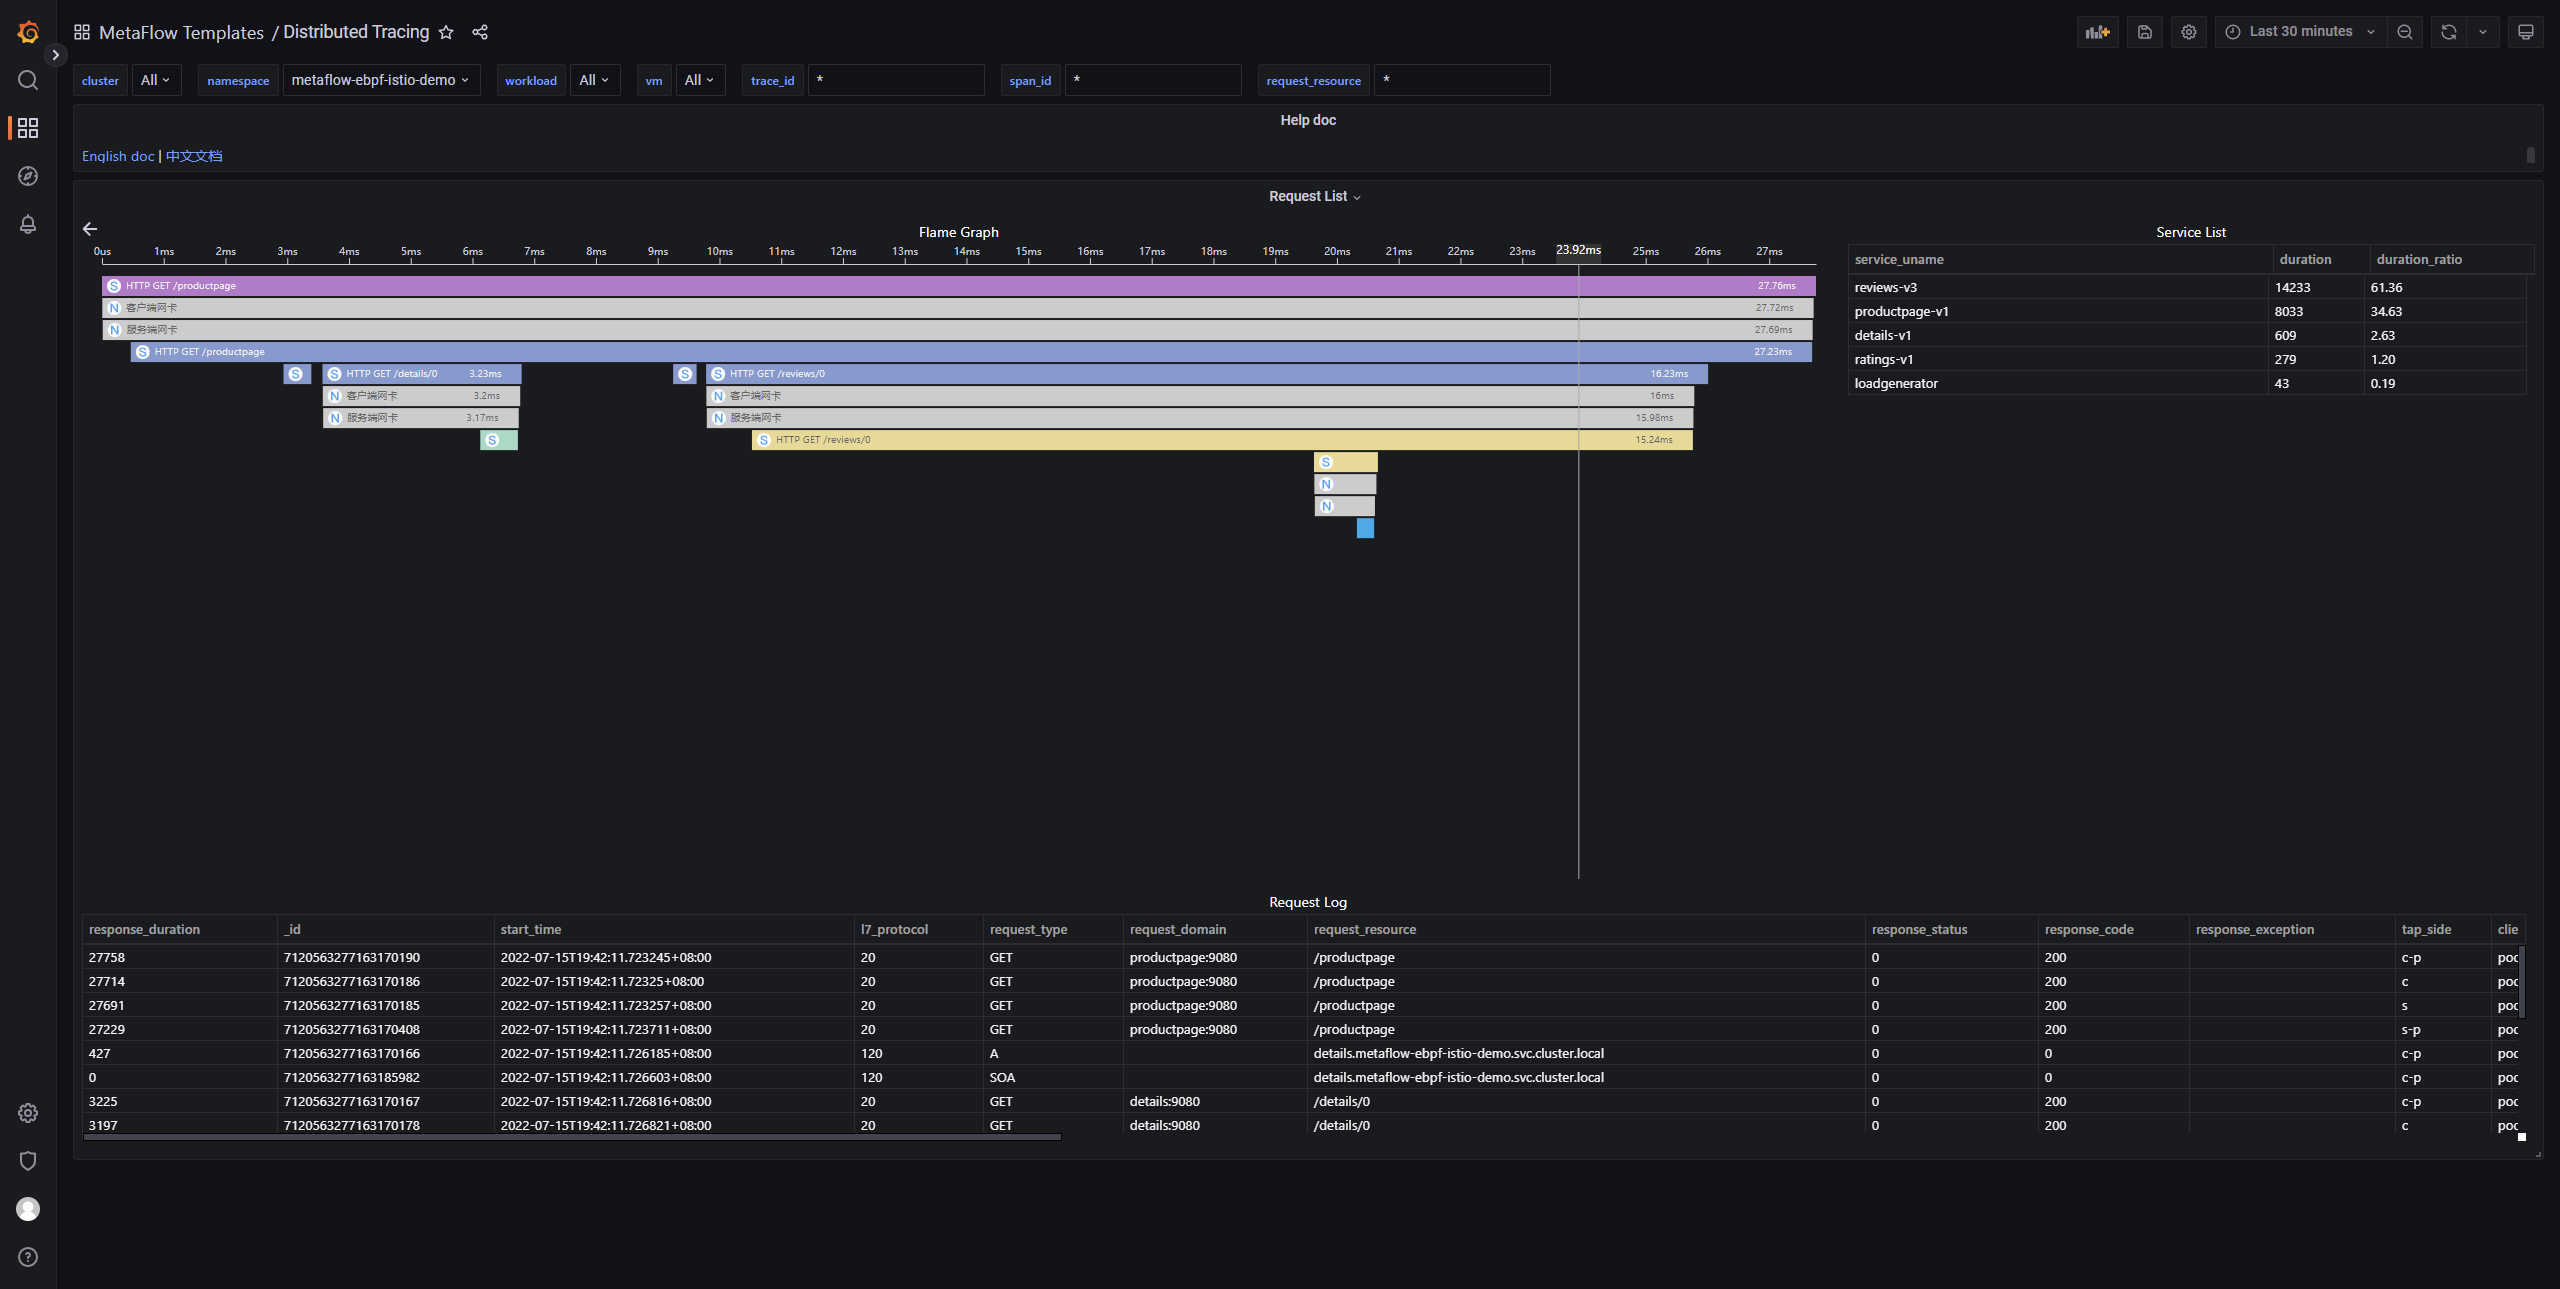
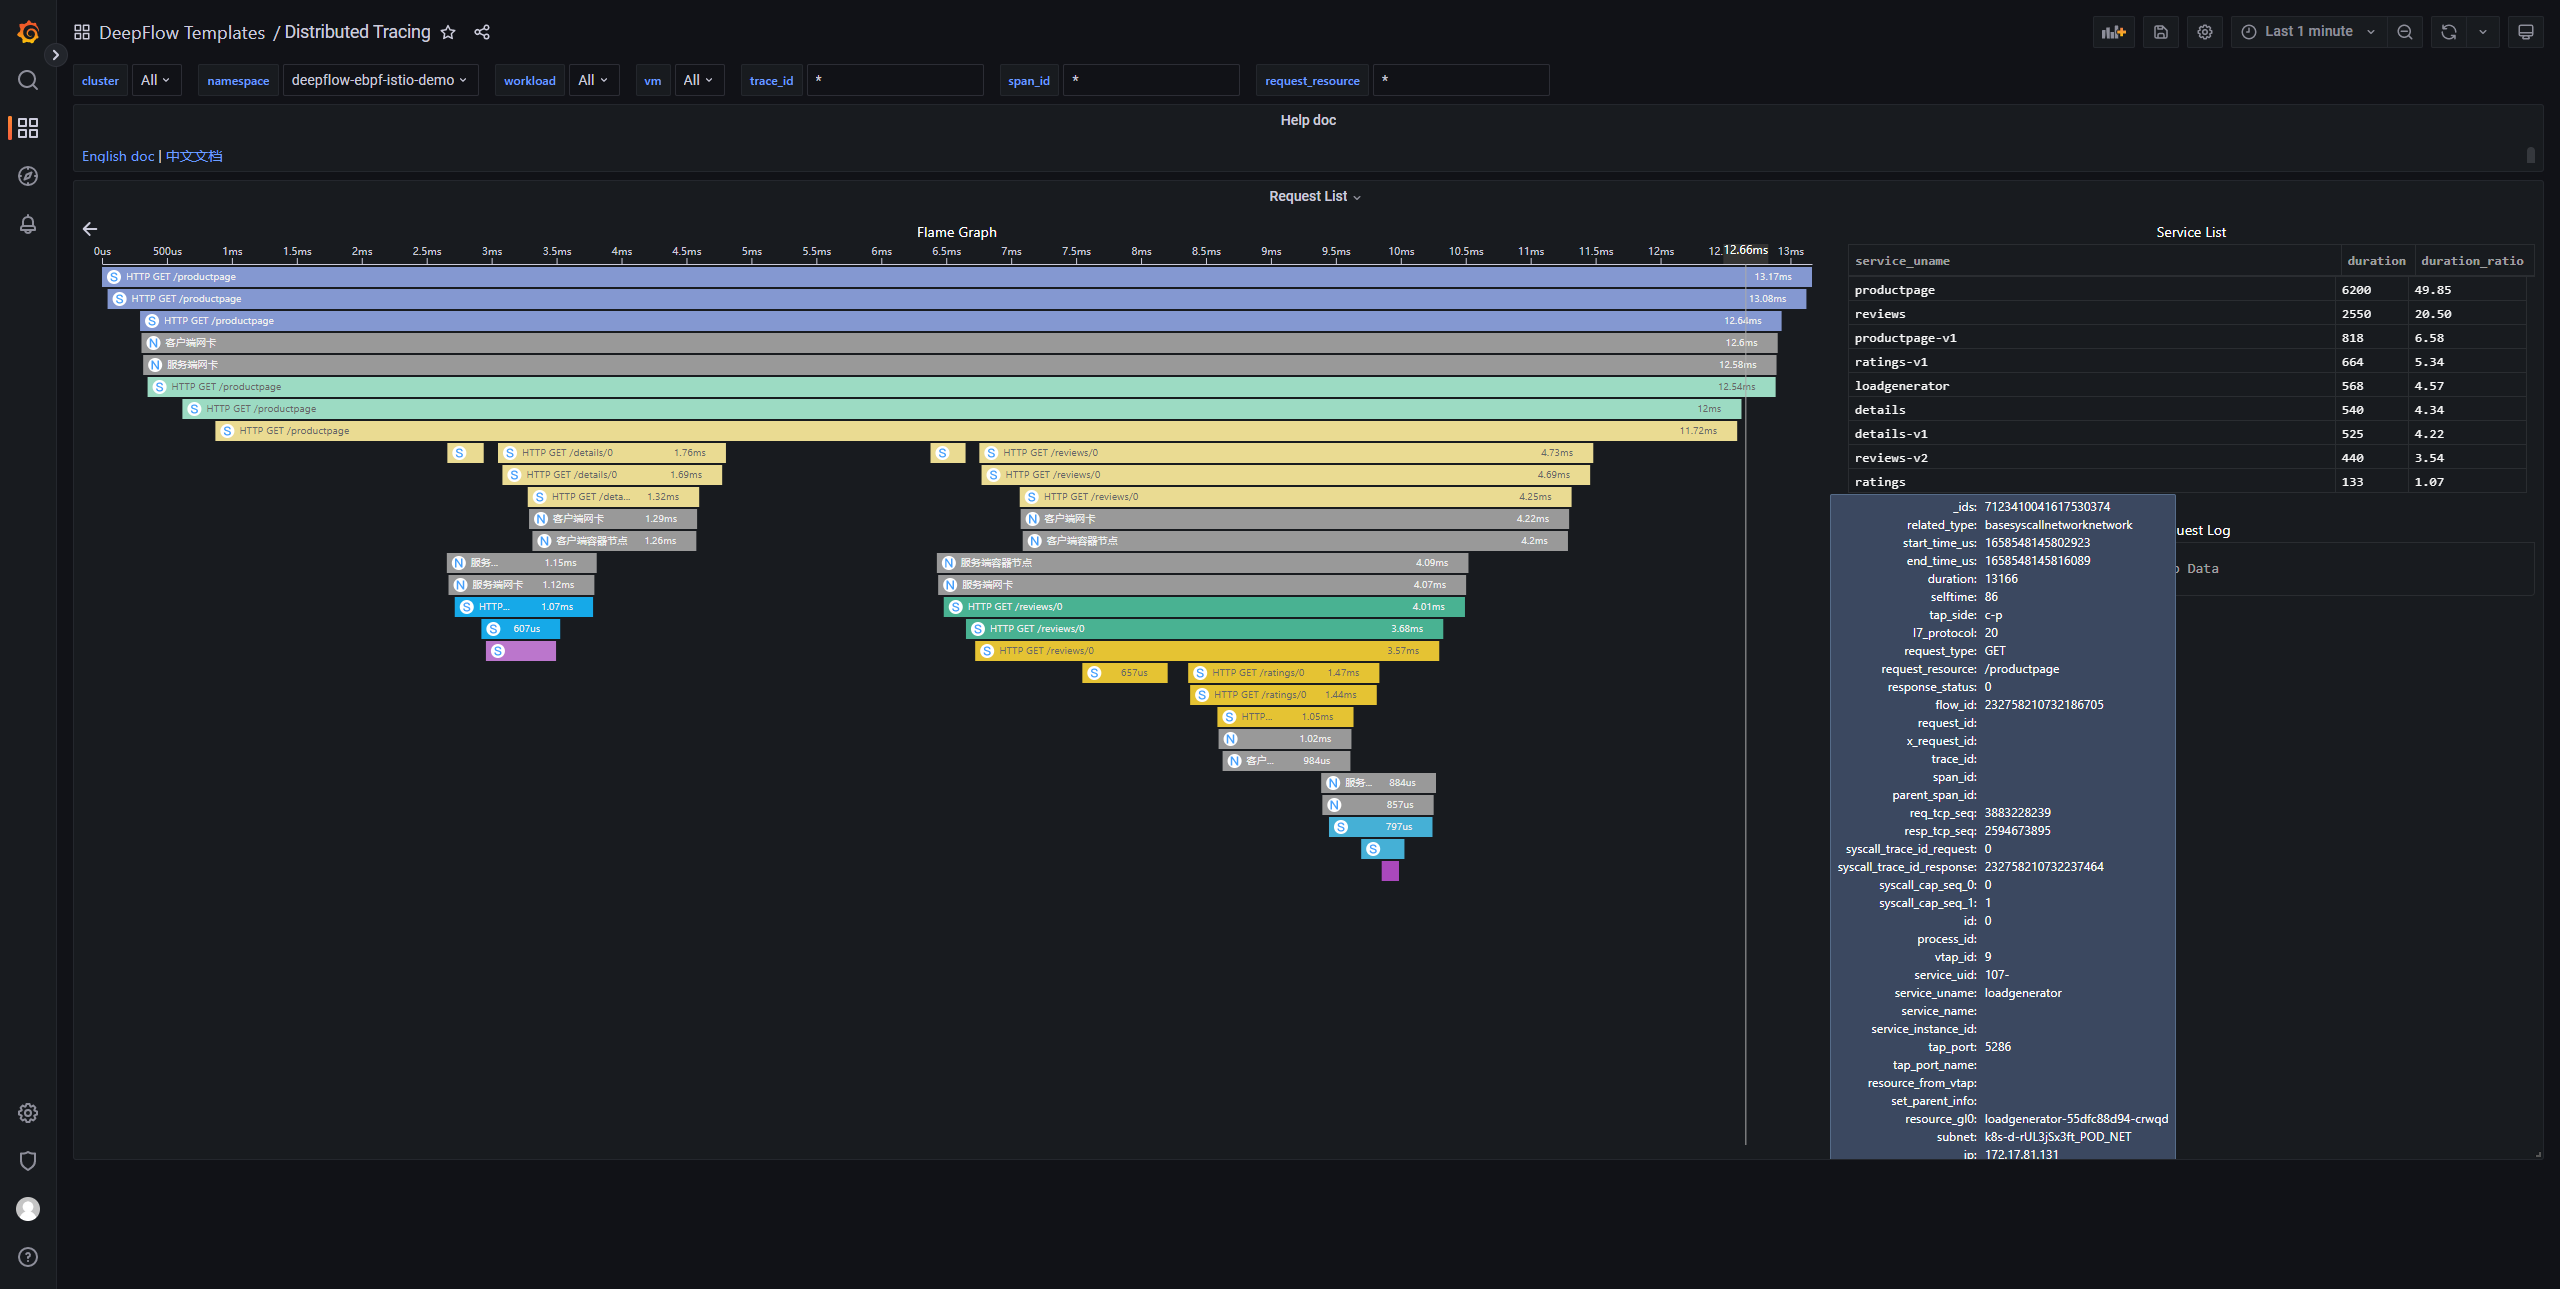
update ebpf-istio-demo screenshot and add comments

diff --git a/zh/04-auto-tracing/03-istio-bookinfo-demo.md b/zh/04-auto-tracing/03-istio-bookinfo-demo.md
@@ -51,6 +51,168 @@ kubectl apply -f https://raw.githubusercontent.com/deepflowys/deepflow-demo/main
 
 ![eBPF Istio Demo](./imgs/ebpf-istio-demo.png)
 
+上图中的调用链火焰图对应的拓扑图如下。对这个追踪 Demo 我们总结一下：
+- 整个追踪过程不需要手动插入任何追踪代码，不需要向 HTTP Header 中注入任何 TraceID/SpanID
+- 利用 eBPF 和 BPF，自动追踪到了这个 Trace 的 38 个 Span
+- 支持追踪一个 Pod 内部从 Envoy Ingress、服务进程、Envoy Egress 的全过程，例如 Span 6-11
+- 支持追踪同 K8s Node 上两个 Pod 之间的网络路径，例如 Span 4-5
+- 支持追踪跨 K8s Node 上两个 Pod 之间的网络路径，即使中间经过了隧道封装，例如 Span 12-15（IPIP 隧道封装）
+
+```mermaid
+flowchart TD
+
+loadgenerator_curl_send(1-eBPF: loadgenerator curl send):::loadgenerator
+loadgenerator_envoy_egress_recv(2-eBPF: loadgenerator envoy egress recv):::loadgenerator
+loadgenerator_envoy_egress_send(3-eBPF: loadgenerator envoy egress send):::loadgenerator
+loadgenerator_vnic_send(4-BPF: loadgenerator vnic send):::nic
+
+productpage_vnic_recv(5-BPF: productpage vnic recv):::nic
+productpage_envoy_ingress_recv(6-eBPF: productpage envoy ingress recv):::productpage_1
+productpage_envoy_ingress_send(7-eBPF: productpage envoy ingress send):::productpage_1
+productpage_python_recv(8-eBPF: productpage python recv):::productpage_2
+productpage_python_send_d("9-eBPF: productpage python send ->details"):::productpage_2
+productpage_envoy_egress_recv_d("10-eBPF: productpage envoy egress recv ->details"):::productpage_2
+productpage_envoy_egress_send_d("11-eBPF: productpage envoy egress send ->details"):::productpage_2
+productpage_vnic_send_d("12-BPF: productpage vnic send ->details"):::nic
+node2_nic_send_pd("13-BPF: node2 nic send prod->details"):::nic
+node1_nic_recv_pd("14-BPF: node1 nic recv prod->details"):::nic
+
+details_vnic_recv(15-BPF: details vnic recv):::nic
+details_envoy_ingress_recv(16-eBPF: details envoy ingress recv):::details_1
+details_envoy_ingress_send(17-eBPF: details envoy ingress send):::details_1
+details_ruby_recv(18-eBPF: details ruby recv):::details_2
+
+productpage_python_send_r("19-eBPF: productpage python send prod->review"):::productpage_2
+productpage_envoy_egress_recv_r("20-eBPF: productpage envoy egress recv prod->review"):::productpage_2
+productpage_envoy_egress_send_r("21-eBPF: productpage envoy egress send prod->review"):::productpage_2
+productpage_vnic_send_r("22-BPF: productpage vnic send prod->review"):::nic
+node2_nic_send_pr("23-BPF: node2 nic send prod->review"):::nic
+node1_nic_recv_pr("24-BPF: node1 nic recv prod->review"):::nic
+
+reviews_vnic_recv(25-BPF: reviews vnic recv):::nic
+reviews_envoy_ingress_recv(26-eBPF: reviews envoy ingress recv):::reviews_1
+reviews_envoy_ingress_send(27-eBPF: reviews envoy ingress send):::reviews_1
+reviews_java_recv(28-eBPF: reviews java recv):::reviews_2
+reviews_java_send(29-eBPF: reviews java send):::reviews_2
+reviews_envoy_egress_recv(30-eBPF: reviews envoy egress recv):::reviews_2
+reviews_envoy_egress_send(31-eBPF: reviews envoy egress send):::reviews_2
+reviews_vnic_send(32-BPF: reviews vnic send):::nic
+node1_nic_send_rr("33-BPF: node1 nic send reviews->ratings"):::nic
+node2_nic_recv_rr("34-BPF: node2 nic recv reviews->ratings"):::nic
+
+ratings_vnic_recv(35-BPF: ratings vnic recv):::nic
+ratings_envoy_ingress_recv(36-eBPF: ratings envoy ingress recv):::ratings_1
+ratings_envoy_ingress_send(37-eBPF: ratings envoy ingress send):::ratings_1
+ratings_nodejs_recv(38-eBPF: ratings node.js recv):::ratings_2
+
+subgraph node2-1 [k8s node2]
+    subgraph loadgenerator pod
+        subgraph loadgenerator curl container
+            loadgenerator_curl_send
+        end
+        subgraph loadgenerator envoy container
+            loadgenerator_envoy_egress_recv
+            loadgenerator_envoy_egress_send
+        end
+    end
+
+    loadgenerator_vnic_send
+    productpage_vnic_recv
+
+    subgraph productpage pod
+        subgraph productpage envoy container
+            productpage_envoy_ingress_recv
+            productpage_envoy_ingress_send
+            productpage_envoy_egress_recv_d
+            productpage_envoy_egress_send_d
+            productpage_envoy_egress_recv_r
+            productpage_envoy_egress_send_r
+        end
+        subgraph productpage python container
+            productpage_python_recv
+            productpage_python_send_d
+            productpage_python_send_r
+        end
+    end
+
+    productpage_vnic_send_d
+    productpage_vnic_send_r
+    node2_nic_send_pd
+    node2_nic_send_pr
+end
+
+subgraph node2-2 [k8s node2]
+    node2_nic_recv_rr
+    ratings_vnic_recv
+
+    subgraph ratings pod
+        subgraph ratings envoy container
+            ratings_envoy_ingress_recv
+            ratings_envoy_ingress_send
+        end
+        subgraph ratings nodejs container
+            ratings_nodejs_recv
+        end
+    end
+end
+
+subgraph k8s node1
+    node1_nic_recv_pd
+    node1_nic_recv_pr
+    details_vnic_recv
+    reviews_vnic_recv
+
+    subgraph details pod
+        subgraph details envoy container
+            details_envoy_ingress_recv
+            details_envoy_ingress_send
+        end
+        subgraph details ruby container
+            details_ruby_recv
+        end
+    end
+    subgraph reviews pod
+        subgraph reviews envoy container
+            reviews_envoy_ingress_recv
+            reviews_envoy_ingress_send
+            reviews_envoy_egress_recv
+            reviews_envoy_egress_send
+        end
+        subgraph reviews java container
+            reviews_java_recv
+            reviews_java_send
+        end
+    end
+
+    reviews_vnic_send
+    node1_nic_send_rr
+end
+
+loadgenerator_curl_send --> loadgenerator_envoy_egress_recv --> loadgenerator_envoy_egress_send --> loadgenerator_vnic_send --> productpage_vnic_recv
+
+productpage_vnic_recv --> productpage_envoy_ingress_recv --> productpage_envoy_ingress_send --> productpage_python_recv
+productpage_python_recv --> productpage_python_send_d --> productpage_envoy_egress_recv_d --> productpage_envoy_egress_send_d --> productpage_vnic_send_d --> node2_nic_send_pd -->|IPIP encap| node1_nic_recv_pd --> details_vnic_recv
+productpage_python_recv --> productpage_python_send_r --> productpage_envoy_egress_recv_r --> productpage_envoy_egress_send_r --> productpage_vnic_send_r --> node2_nic_send_pr -->|IPIP encap| node1_nic_recv_pr --> reviews_vnic_recv
+
+details_vnic_recv --> details_envoy_ingress_recv --> details_envoy_ingress_send --> details_ruby_recv
+
+reviews_vnic_recv --> reviews_envoy_ingress_recv --> reviews_envoy_ingress_send --> reviews_java_recv
+reviews_java_recv --> reviews_java_send --> reviews_envoy_egress_recv --> reviews_envoy_egress_send --> reviews_vnic_send --> node1_nic_send_rr -->|IPIP encap| node2_nic_recv_rr --> ratings_vnic_recv
+
+ratings_vnic_recv --> ratings_envoy_ingress_recv --> ratings_envoy_ingress_send --> ratings_nodejs_recv
+
+classDef loadgenerator fill:#8498d1,color:white;
+classDef nic fill:#a1a1a1,color:white;
+classDef productpage_1 fill:#9cdbc3,color:black;
+classDef productpage_2 fill:#eadbc4,color:black;
+classDef details_1 fill:#16a9e8,color:white;
+classDef details_2 fill:#b38ebc,color:white;
+classDef reviews_1 fill:#49b292,color:white;
+classDef reviews_2 fill:#ceb961,color:black;
+classDef ratings_1 fill:#6aaec6,color:black;
+classDef ratings_2 fill:#aa48bc,color:black;
+```
+
 在 [Spring Boot Demo](./spring-boot-demo/) 的基础上，DeepFlow 通过解析 BPF/eBPF 数据中 HTTP 头部的 X-Request-ID 字段，可以实现对 Envoy 前后调用的追踪。
 
 [访问 DeepFlow Online Demo](https://ce-demo.deepflow.yunshan.net/d/Distributed_Tracing/distributed-tracing?var-namespace=deepflow-ebpf-istio-demo&from=deepflow-doc) 也可查看追踪效果。
